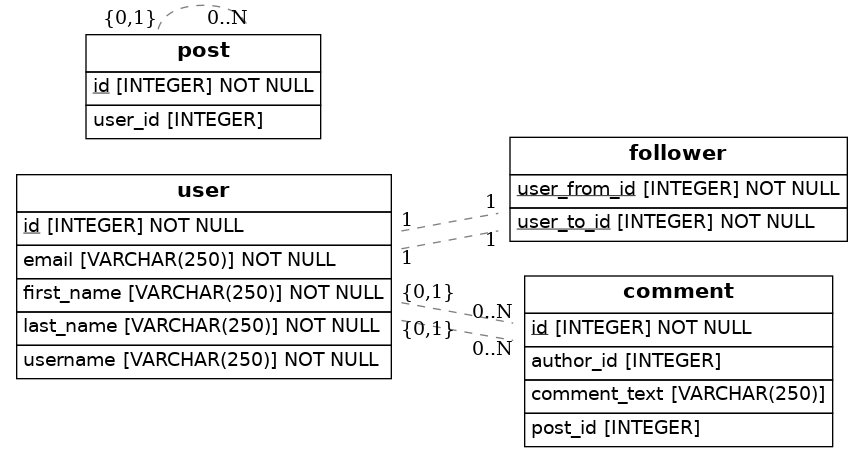
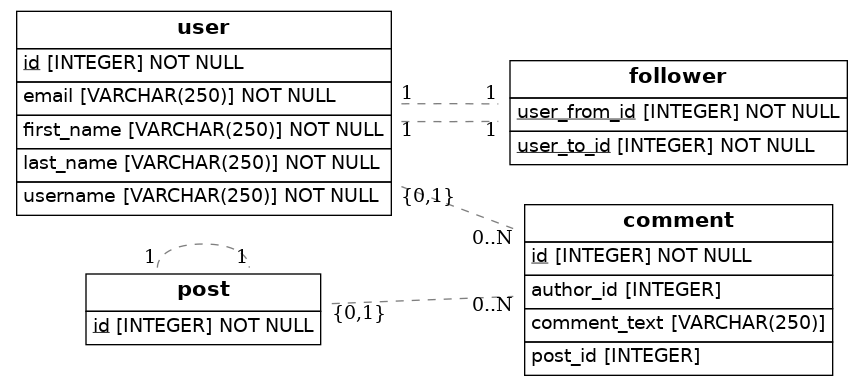
empiezo a comprender las relaciones entre tablas

diff --git a/src/models.py b/src/models.py
@@ -7,7 +7,18 @@ from eralchemy2 import render_er
 
 Base = declarative_base()
 
+""" class Parent(Base):
+    __tablename__ = "parent_table"
 
+    id: Mapped[int] = mapped_column(primary_key=True)
+    child_id: Mapped[int] = mapped_column(ForeignKey("child_table.id"))
+    child: Mapped["Child"] = relationship()
+
+
+class Child(Base):
+    __tablename__ = "child_table"
+
+    id: Mapped[int] = mapped_column(primary_key=True) """
 
 
 class User(Base):
@@ -17,9 +28,10 @@ class User(Base):
     first_name = Column(String(250), nullable=False)
     last_name = Column(String(250), nullable=False)
     email = Column(String(250), nullable=False)
-    followers = relationship('Follower', back_populates='user')
-
-class Follower(Base):
+    followers = relationship('follower', back_populates='user')
+    comment = relationship('comment', back_populates='user')
+    post = relationship('post', back_populates='user')
+class Followers(Base):
     __tablename__ = 'follower'
     user_from_id = Column(Integer, ForeignKey('user.id'), primary_key=True)
     user_to_id = Column(Integer, ForeignKey('user.id'), primary_key=True)
@@ -30,15 +42,14 @@ class Comment(Base):
     id = Column(Integer, primary_key=True)
     comment_text = Column(String(250))
     author_id = Column(Integer, ForeignKey('user.id'))
-    post_id = Column(Integer, ForeignKey('user.id'))
+    post_id = Column(Integer, ForeignKey('post.id'))
     author = relationship('User')
     post = relationship('post')
 
 class Post(Base):
     __tablename__ = 'post'
-    id = Column(Integer, primary_key=True)
-    user_id = Column(Integer, ForeignKey('post.id'))
-    user = relationship('User', back_populates='comment')
+    id= Column(Integer, ForeignKey('post.id'), primary_key=True)
+    user_id = relationship('User')
     
 
 def to_dict(self):
